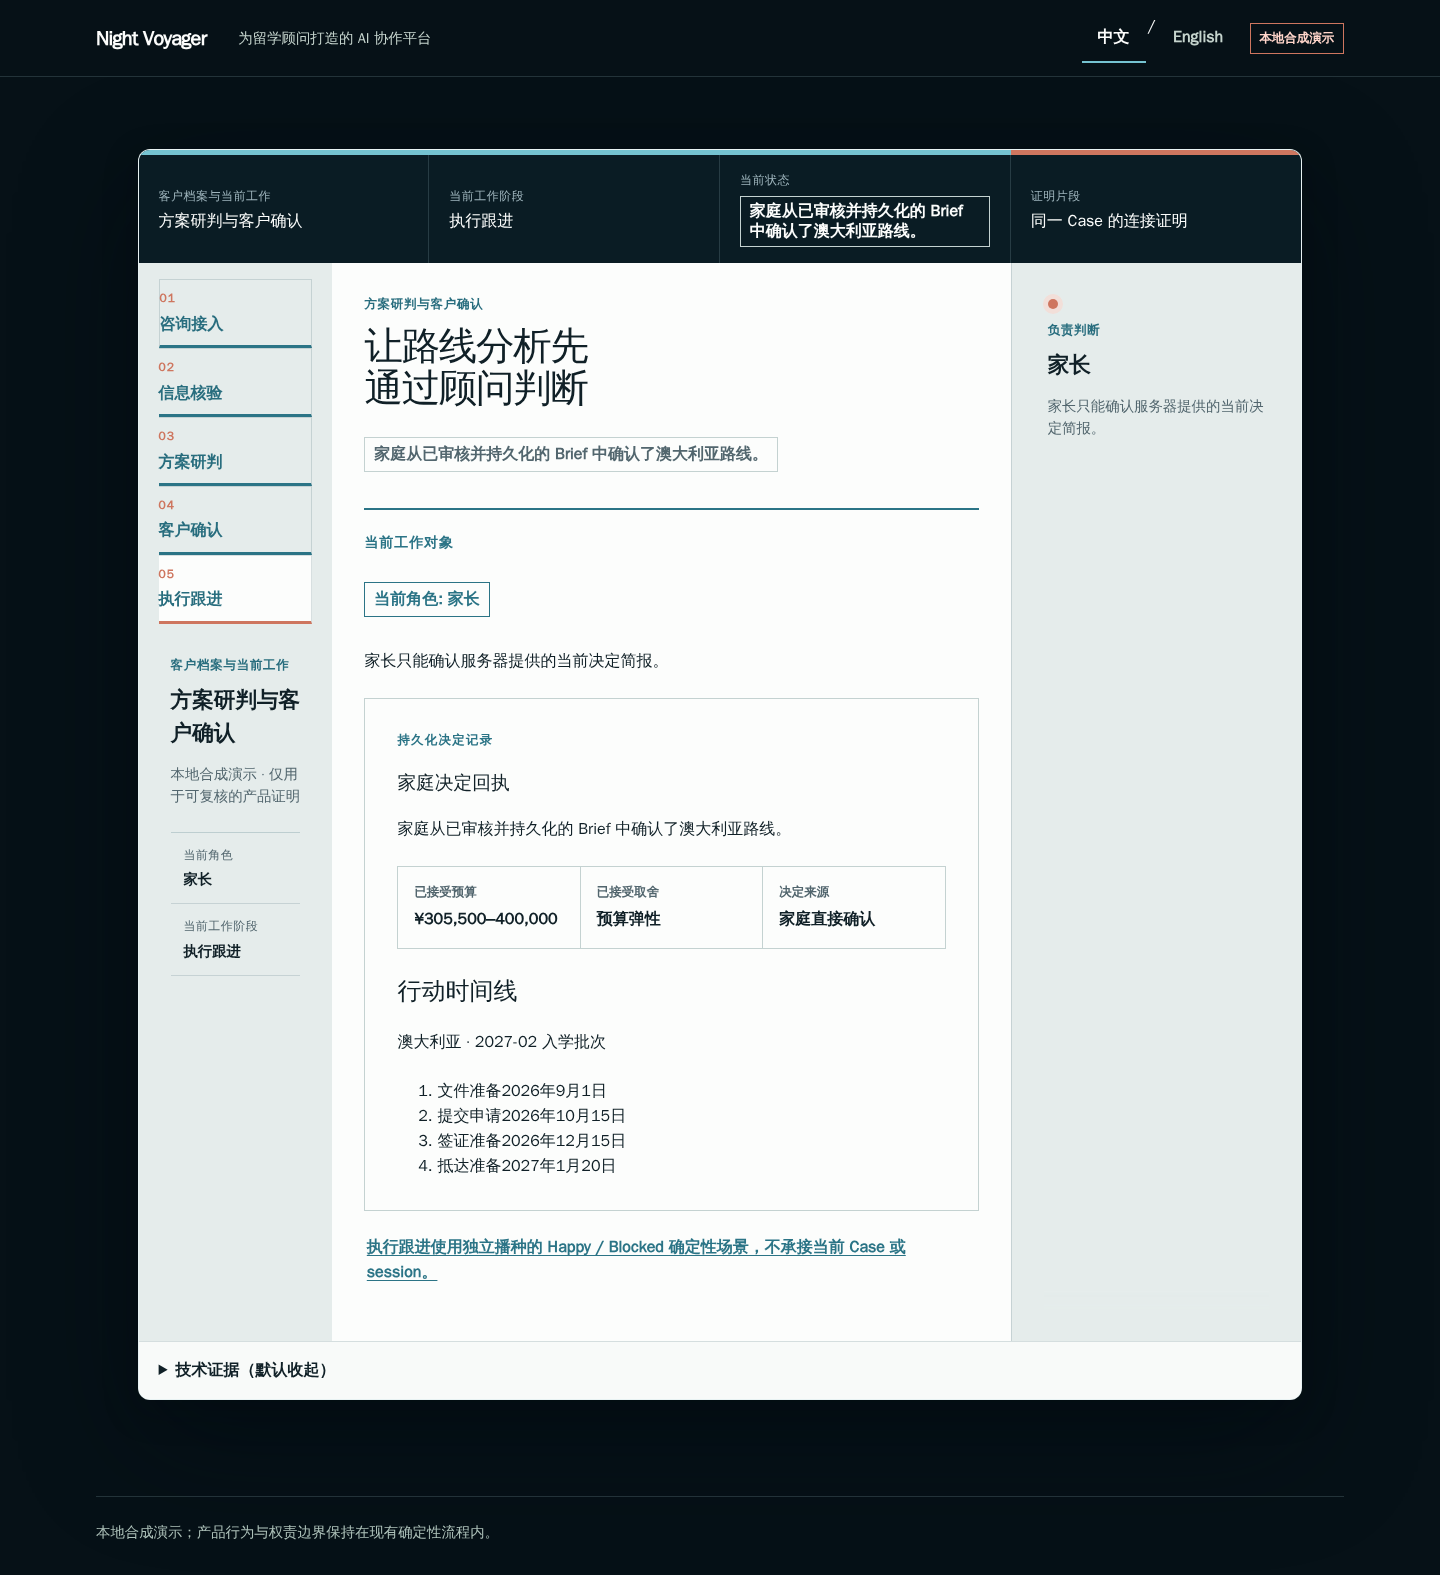
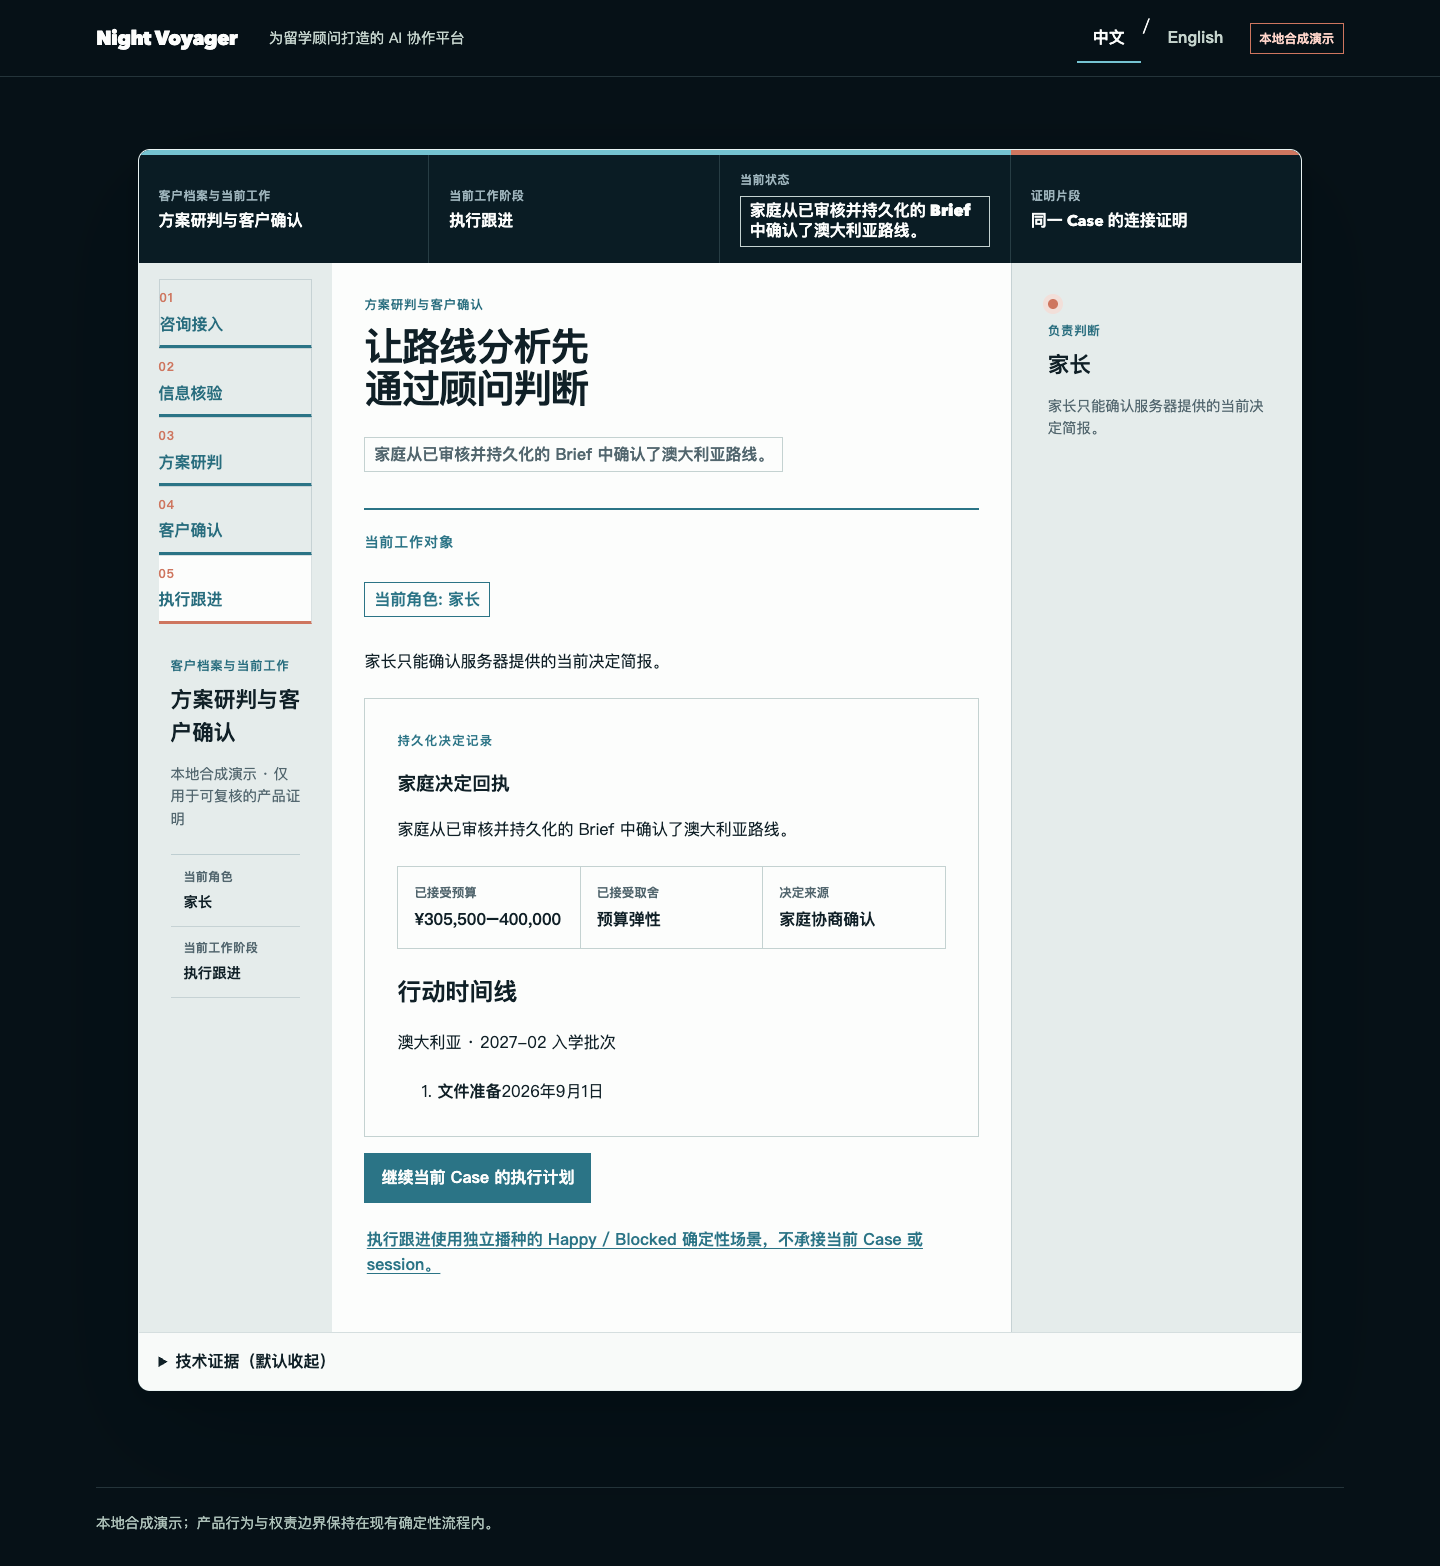
fix: clarify connected execution evidence
Separate connected and independent workspace identity copy and refresh the current receipt and timeline capture with review provenance.

diff --git a/web/lib/presentation/catalog.ts b/web/lib/presentation/catalog.ts
@@ -12,7 +12,8 @@ export const zhCN = {
   contextPortfolio: "顾问工作台入口",
   contextAdvisorFamily: "方案研判与客户确认",
   contextCollaboration: "咨询接入与信息核验",
-  contextPlanExecution: "执行跟进 · 同一 Case 或独立确定性场景",
+  contextPlanExecution: "执行跟进 · 独立确定性场景",
+  contextConnectedPlanExecution: "执行跟进 · 同一 Case",
   typedProposalLabel: "结构化事实提案",
   caseRevisionDisclosureLabel: "档案版本",
   factVersionDisclosureLabel: "事实版本",
@@ -176,7 +177,7 @@ export const zhCN = {
   separateExecutionScenario: "执行跟进使用独立播种的 Happy / Blocked 确定性场景，不承接当前 Case 或 session。",
   continueConnectedExecution: "继续当前 Case 的执行计划",
   rootWorkflowTitle: "一条顾问工作流，两个确定性证明片段",
-  rootWorkflowBody: "咨询接入、信息核验、方案研判、客户确认和执行跟进保持同一产品模型；连接证明可从回执与 TimelinePlan 继续进入同一 Case 的执行与重新评估，独立执行场景仍另行标注。",
+  rootWorkflowBody: "咨询接入、信息核验、方案研判、客户确认和执行跟进保持同一产品模型；连接证明在回执与 TimelinePlan 处结束，执行跟进另行标注。",
   rootResponsibilityTitle: "AI 负责协作，顾问与客户保留判断",
   rootResponsibilityAiTitle: "AI 协作",
   rootResponsibilityAiBody: "整理信息、研究证据、比较路线、草拟方案、跟踪状态。",
@@ -576,7 +577,8 @@ export const en = {
   contextPortfolio: "Advisor workspace entry",
   contextAdvisorFamily: "Route analysis and client confirmation",
   contextCollaboration: "Consultation intake and client fact review",
-  contextPlanExecution: "Execution follow-up · connected Case or independent deterministic scenario",
+  contextPlanExecution: "Execution follow-up · independent deterministic scenario",
+  contextConnectedPlanExecution: "Execution follow-up · connected same-Case",
   typedProposalLabel: "typed proposal",
   caseRevisionDisclosureLabel: "Case revision",
   factVersionDisclosureLabel: "Fact version",
@@ -740,7 +742,7 @@ export const en = {
   separateExecutionScenario: "Execution follow-up uses an independently seeded Happy / Blocked deterministic scenario; it does not carry this Case or session forward.",
   continueConnectedExecution: "Continue this Case into execution",
   rootWorkflowTitle: "One advisor workflow, two deterministic proof segments",
-  rootWorkflowBody: "Consultation intake, client fact review, route analysis, client confirmation, and execution follow-up share one product model. The connected proof can continue from the receipt and TimelinePlan into the same Case's execution and reassessment; independent execution remains labelled separately.",
+  rootWorkflowBody: "Consultation intake, client fact review, route analysis, client confirmation, and execution follow-up share one product model. The connected proof ends at the receipt and TimelinePlan; execution follow-up is labelled separately.",
   rootResponsibilityTitle: "AI collaborates; the advisor and client keep judgment",
   rootResponsibilityAiTitle: "AI collaboration",
   rootResponsibilityAiBody: "Organize information, research evidence, compare routes, draft proposals, and track state.",

diff --git a/web/tests/unit/plan-execution-ui.test.tsx b/web/tests/unit/plan-execution-ui.test.tsx
@@ -47,7 +47,7 @@ function controllerFor(
   return controller;
 }
 
-it("presents execution follow-up in the shared independent-scenario workspace shell", () => {
+it("presents the exact independent authority in the seeded workspace shell", () => {
   const { container } = render(
     <PresentationProvider>
       <PlanExecutionWorkspace controller={activeController()} scenario="happy" />
@@ -56,6 +56,9 @@ it("presents execution follow-up in the shared independent-scenario workspace sh
 
   expect(screen.getByRole("banner")).toBeInTheDocument();
   expect(screen.getByRole("heading", { level: 1, name: "把当前执行节点推进到可复核状态" })).toBeVisible();
+  expect(container.querySelector("[data-frame-slot='top-band']")).toHaveTextContent(
+    "执行跟进 · 独立确定性场景",
+  );
   expect(screen.getAllByText("独立演示场景，不沿用当前客户档案。").length).toBeGreaterThanOrEqual(1);
   expect(screen.getByRole("list", { name: "顾问工作流阶段" })).toBeInTheDocument();
   expect(screen.getAllByRole("heading", { level: 1 })).toHaveLength(1);
@@ -77,6 +80,9 @@ it("marks connected execution as the connected same-Case proof segment", () => {
   );
 
   expect(container.querySelector("[data-proof-segment='connected_same_case']")).toBeInTheDocument();
+  expect(container.querySelector("[data-frame-slot='top-band']")).toHaveTextContent(
+    "执行跟进 · 同一 Case",
+  );
 });
 
 it("renders the current action first without raw hashes or row versions", () => {

diff --git a/web/components/plan-execution/PlanExecutionWorkspace.tsx b/web/components/plan-execution/PlanExecutionWorkspace.tsx
@@ -190,7 +190,9 @@ export function PlanExecutionWorkspace({
   return (
     <AdvisorWorkspaceShell
       activeRole={role ?? null}
-      contextKey="contextPlanExecution"
+      contextKey={authority.kind === "connected"
+        ? "contextConnectedPlanExecution"
+        : "contextPlanExecution"}
       currentStage={workflowStage}
       mainId="plan-execution-main"
       proofSegment={authority.kind === "connected"

diff --git a/docs/operations/connected-demo.md b/docs/operations/connected-demo.md
@@ -25,6 +25,26 @@ or enter the `sessionStorage` journey envelope.
 
 ![Chinese planning revision comparison](../assets/night-voyager-planning-revision.png)
 
+The current family receipt/timeline frame is refreshed review evidence for the
+connected `/demo` `plan_ready` state. It includes the same-Case primary
+continuation and the retained independent scenario entry; it is not PostgreSQL or
+RLS proof.
+
+| Asset | Before | After |
+| --- | --- | --- |
[1 lines of base64/hex data omitted]
+
+Capture provenance: frozen source files were `ConnectedDemo.tsx` SHA-256
[1 lines of base64/hex data omitted]
+`PlanExecutionWorkspace.tsx` SHA-256
[1 lines of base64/hex data omitted]
+`catalog.ts` SHA-256
[1 lines of base64/hex data omitted]
+capture used real Chromium through the repository Playwright CLI at `zh-CN`, a
+`1440x900` viewport, and an explicit local synthetic `plan_ready` contract. No
+Docker or database authority was used for this visual capture. Hosted
+Compose/database/browser proof remains mandatory before merge.
+
 The connected same-Case walkthrough begins at `/demo/collaboration` and is documented
 in the [governed collaboration walkthrough](collaboration-walkthrough.md). It shares
 the session envelope and read-only inspector. Its controlled handoff creates no task
